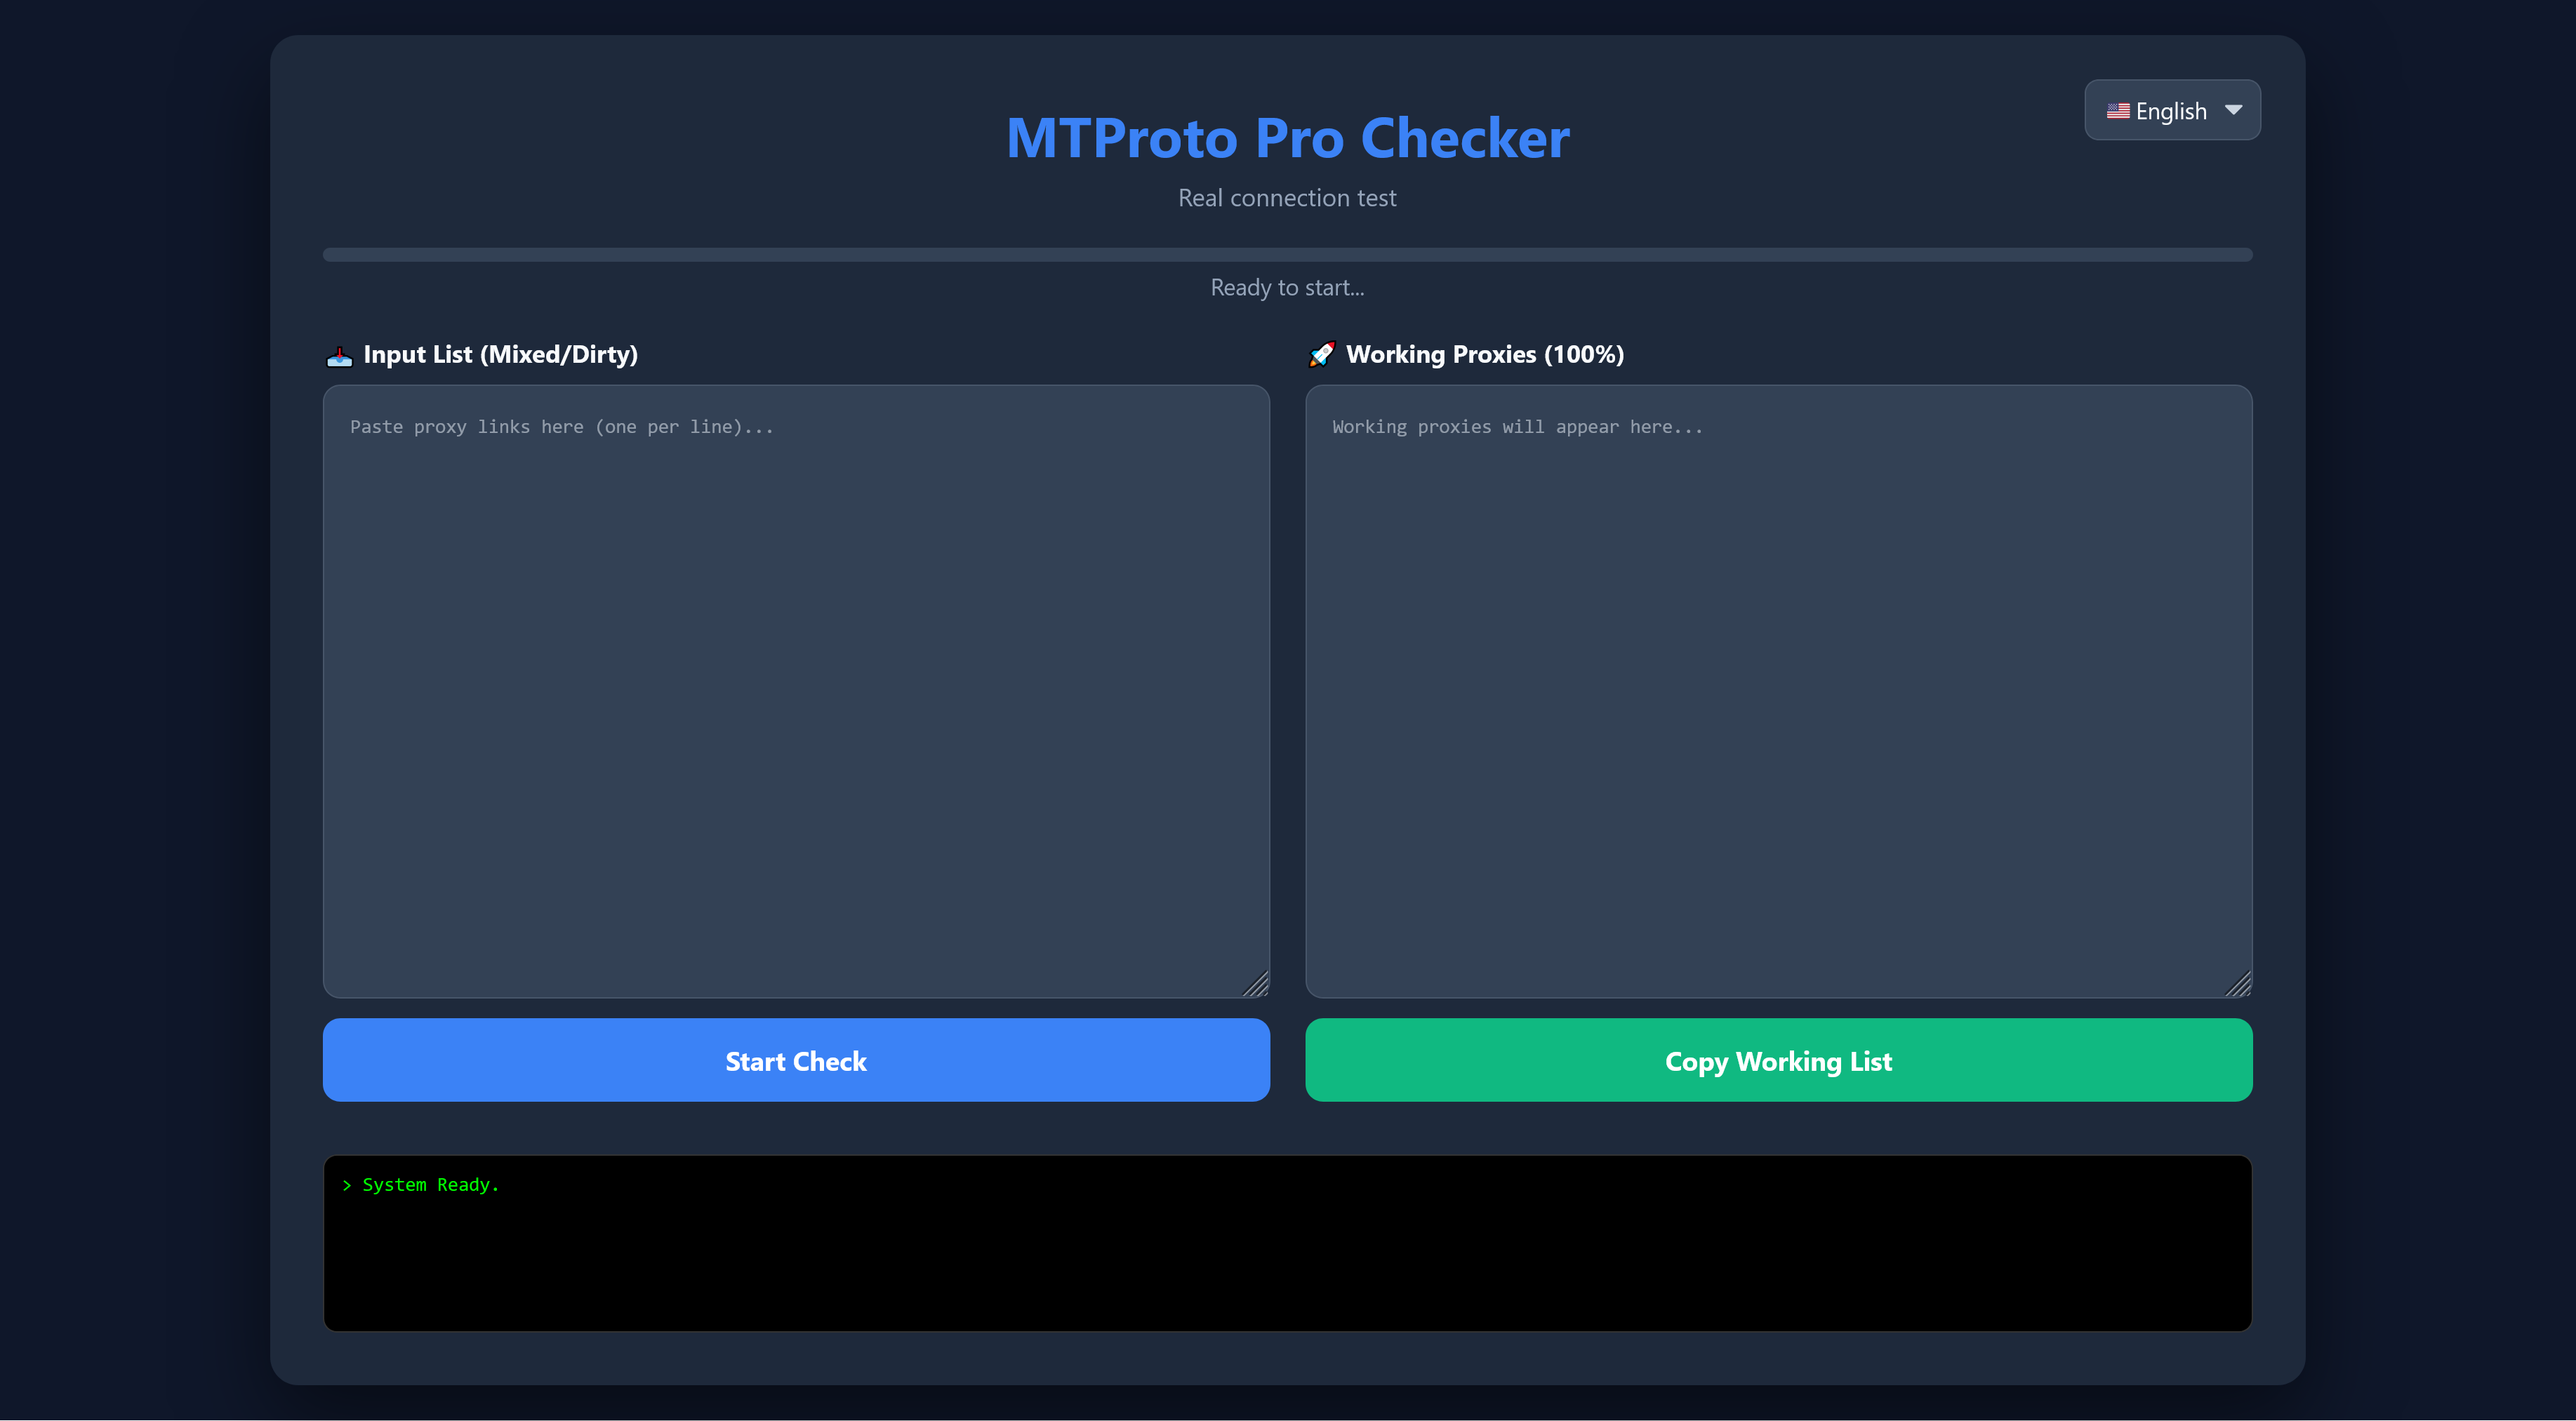
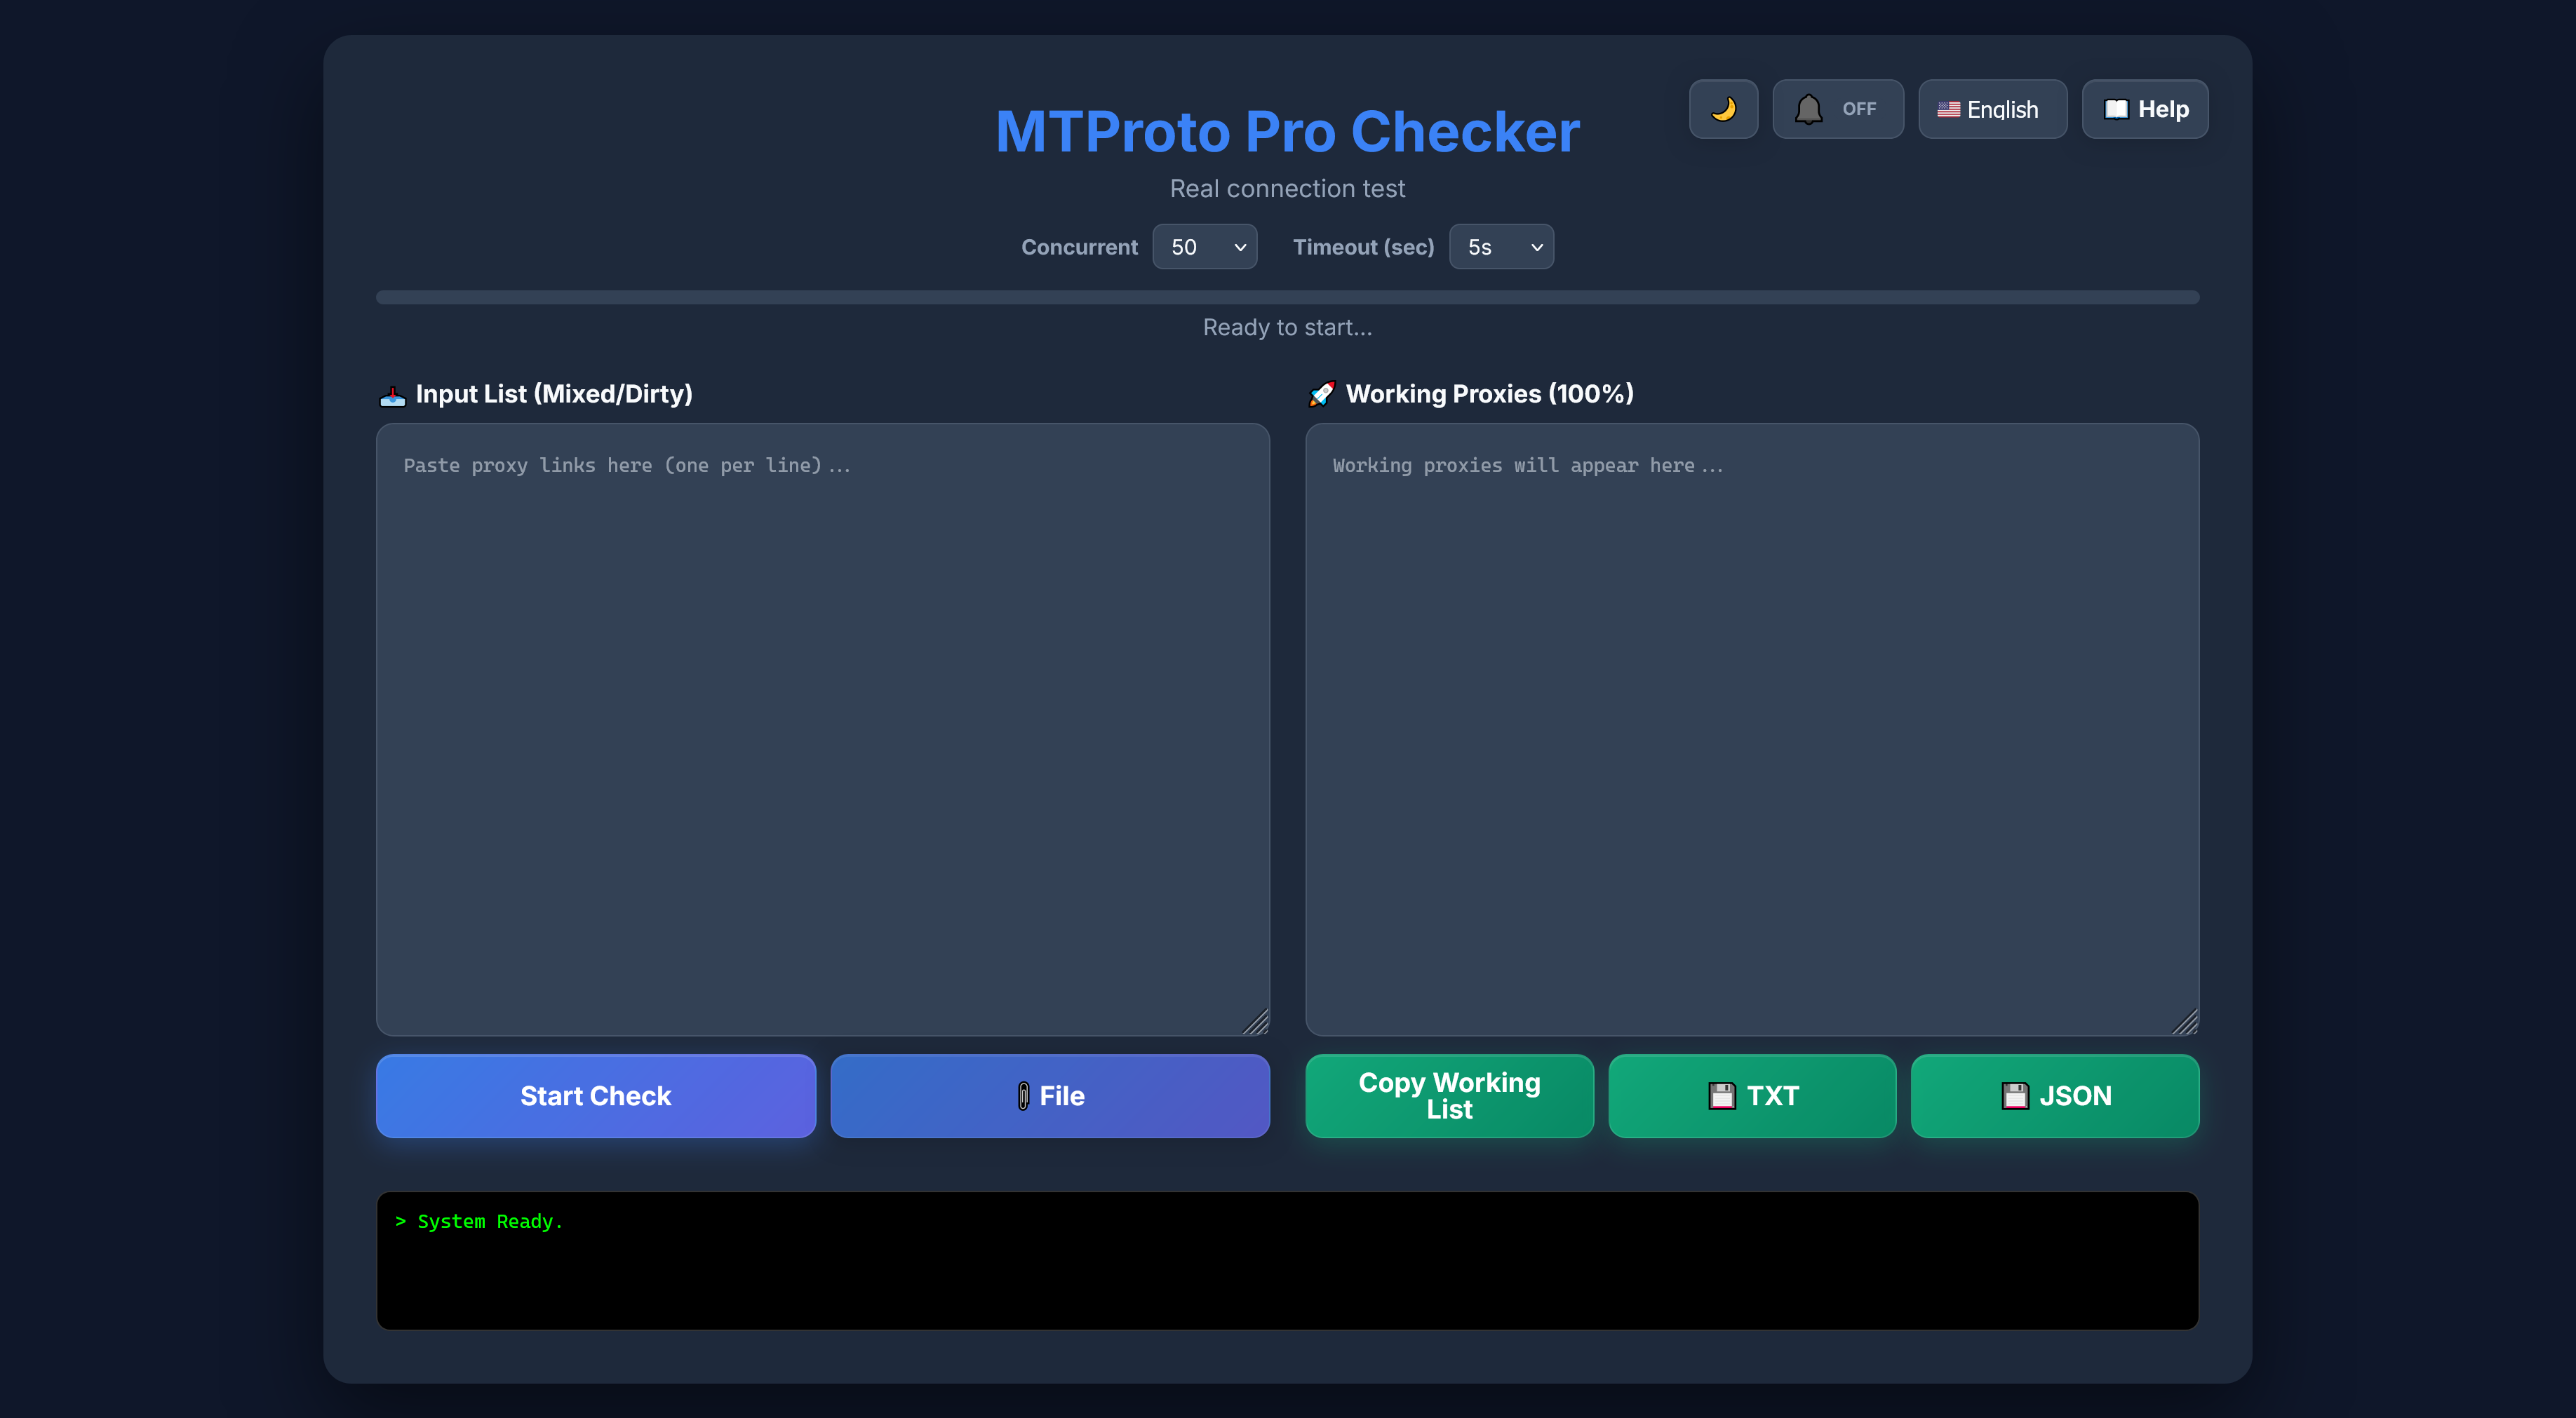
chore: update READMEs, add help btn, update skill files
- README: lang links moved to top, installation rewritten
  with release table (5 platforms), lang-specific screenshots
- index.html: h1 wraps repo link; help btn with i18n text
- openHelp(): opens per-language README on GitHub in new tab
- CSS: help-btn styled as header control, h1 link no underline
- SPEC.md: C3 4 langs, V20 (title link + help btn)
- AGENTS.md: title link, help btn, release workflow facts

Changed region(s): [[0.0932, 0.0312, 0.9008, 0.9659], [0.0, 0.997, 1.0, 1.0]]

diff --git a/public/css/components.css b/public/css/components.css
@@ -16,7 +16,8 @@ html[dir="ltr"] .header-controls {
 
 .header-controls .theme-toggle,
 .header-controls .sound-toggle,
-.header-controls .lang-select {
+.header-controls .lang-select,
+.header-controls .help-btn {
     display: flex;
     align-items: center;
     box-sizing: border-box;
@@ -38,7 +39,8 @@ html[dir="ltr"] .header-controls {
 
 .header-controls .theme-toggle:hover,
 .header-controls .sound-toggle:hover,
-.header-controls .lang-select:hover {
+.header-controls .lang-select:hover,
+.header-controls .help-btn:hover {
     border-color: var(--accent);
     background-color: #3f4a5e;
 }
@@ -112,6 +114,23 @@ html[dir="rtl"] .lang-select {
     min-width: 36px;
     font-size: 15px;
     padding: 4px 8px;
+}
+
+.help-btn {
+    justify-content: center;
+    font-size: 13px;
+    padding: 4px 10px;
+    cursor: pointer;
+    border: none;
+    background: none;
+    color: var(--text);
+    font-family: inherit;
+    line-height: 1;
+    white-space: nowrap;
+}
+
+[data-theme="light"] .header-controls .help-btn:hover {
+    background-color: #e2e8f0;
 }
 
 /* ===== Settings Bar ===== */

diff --git a/public/js/script.js b/public/js/script.js
@@ -20,6 +20,7 @@ const translations = {
         toastNoWorking: "😔 هیچ پروکسی سالمی پیدا نشد.",
         toastFound: "🎉 {n} پروکسی سالم پیدا شد!",
         errorGeneric: "خطایی رخ داد. کنسول را چک کنید.",
+        helpBtn: "📖 راهنما",
         fileBtn: "📎 فایل",
         exportTxtBtn: "💾 TXT",
         exportJsonBtn: "💾 JSON",
@@ -48,6 +49,7 @@ const translations = {
         toastNoWorking: "😔 No working proxies found.",
         toastFound: "🎉 Found {n} working proxies!",
         errorGeneric: "An error occurred. Check console.",
+        helpBtn: "📖 Help",
         fileBtn: "📎 File",
         exportTxtBtn: "💾 TXT",
         exportJsonBtn: "💾 JSON",
@@ -76,6 +78,7 @@ const translations = {
         toastNoWorking: "😔 Рабочих прокси не найдено.",
         toastFound: "🎉 Найдено {n} рабочих прокси!",
         errorGeneric: "Произошла ошибка. Проверьте консоль.",
+        helpBtn: "📖 Помощь",
         fileBtn: "📎 Файл",
         exportTxtBtn: "💾 TXT",
         exportJsonBtn: "💾 JSON",
@@ -104,6 +107,7 @@ const translations = {
         toastNoWorking: "😔 未找到可用代理.",
         toastFound: "🎉 找到 {n} 个可用代理!",
         errorGeneric: "发生错误。请检查控制台。",
+        helpBtn: "📖 帮助",
         fileBtn: "📎 文件",
         exportTxtBtn: "💾 TXT",
         exportJsonBtn: "💾 JSON",
@@ -260,6 +264,16 @@ function parseLink(link) {
 
         return { server, port, secret, original: cleanLink };
     } catch (e) { return null;     }
+}
+
+function openHelp() {
+    const urls = {
+        fa: 'https://github.com/rahgozar94725/MTProto-Checker/blob/main/README_FA.md',
+        en: 'https://github.com/rahgozar94725/MTProto-Checker/blob/main/README.md',
+        ru: 'https://github.com/rahgozar94725/MTProto-Checker/blob/main/README_RU.md',
+        zh: 'https://github.com/rahgozar94725/MTProto-Checker/blob/main/README_ZH.md'
+    };
+    window.open(urls[currentLang] || urls.en, '_blank', 'noopener');
 }
 
 function handleStartStop() {

diff --git a/public/css/base.css b/public/css/base.css
@@ -56,6 +56,14 @@ h1 {
     margin-top: 5px;
 }
 
+h1 a {
+    color: var(--accent);
+    text-decoration: none;
+}
+h1 a:hover {
+    text-decoration: underline;
+}
+
 p.sub {
     text-align: center;
     color: var(--muted);

diff --git a/public/index.html b/public/index.html
@@ -24,10 +24,11 @@
             <option value="ru">🇷🇺 Русский</option>
             <option value="zh">🇨🇳 中文</option>
         </select>
+        <button class="help-btn" id="helpBtn" onclick="openHelp()" data-i18n="helpBtn">📖 راهنما</button>
     </div>
 
     <div>
-        <h1 data-i18n="title">MTProto Pro Checker</h1>
+        <h1><a href="https://github.com/rahgozar94725/MTProto-Checker" target="_blank" rel="noopener" data-i18n="title">MTProto Pro Checker</a></h1>
         <p class="sub" data-i18n="subtitle">تست اتصال</p>
 
         <div class="settings-bar">

diff --git a/README_RU.md b/README_RU.md
@@ -1,8 +1,10 @@
 # 🛡️ MTProto Deep Checker
 
+[Read in English](README.md) | [На русском](README_RU.md) | [中文](README_ZH.md) | [فارسی](README_FA.md)
+
 Инструмент для проверки **Telegram MTProto прокси** с выполнением реального рукопожатия протокола. В отличие от простых TCP-чекеров, этот инструмент пытается получить конфигурацию сервера через прокси, гарантируя 100% работоспособность.
 
-![Скриншот](images/screenshot.png)
+![Скриншот](images/screenshot_ru.png)
 
 ## 🌟 Возможности
 
@@ -18,26 +20,32 @@
 
 ## 🚀 Установка
 
-### Вариант 1 — Скачать .exe (Windows)
+### Вариант 1 — Скачать из Releases
 
-Скачайте `MTProto-Checker.exe` из [Releases](../../releases). Запустите двойным щелчком.
+Скачайте готовый бинарник для вашей платформы из [Releases](../../releases).
 
-> Браузер откроется автоматически по адресу `http://localhost:3000`.
+| Платформа | Файл |
+|-----------|------|
+| Windows (amd64) | `mtproto-checker-windows-amd64.exe` |
+| Linux (amd64) | `mtproto-checker-linux-amd64` |
+| Linux (arm64) | `mtproto-checker-linux-arm64` |
+| macOS (Intel) | `mtproto-checker-darwin-amd64` |
+| macOS (Apple Silicon) | `mtproto-checker-darwin-arm64` |
 
-### Вариант 2 — Запуск из исходников с Go (рекомендуется)
+Запустите бинарник. Браузер откроется автоматически по адресу `http://localhost:3000`.
 
-#### Требования
-Установите **Go 1.18+**. [Скачать здесь](https://go.dev/dl/).
+### Вариант 2 — Сборка из исходников
 
-#### Шаги
+Требуется **Go 1.18+**. [Скачать Go](https://go.dev/dl/).
+
 ```bash
 git clone https://github.com/rahgozar94725/MTProto-Checker.git
 cd MTProto-Checker
-go build -o mtproto-checker.exe .
-.\mtproto-checker.exe
+go build -o mtproto-checker .
+./mtproto-checker
 ```
 
-> Бинарник: ~21MB, Node.js не требуется.
+> Бинарник: ~21MB, других зависимостей нет.
 
 ## 📖 Как использовать
 
@@ -75,6 +83,3 @@ go build -o mtproto-checker.exe .
 ## 📝 Лицензия
 
 Проект с открытым исходным кодом под лицензией [MIT](LICENSE).
-
----
-[Read in English](README.md) | [На русском](README_RU.md) | [中文](README_ZH.md) | [فارسی](README_FA.md)

diff --git a/README_ZH.md b/README_ZH.md
@@ -1,8 +1,10 @@
 # 🛡️ MTProto Deep Checker
 
+[Read in English](README.md) | [На русском](README_RU.md) | [中文](README_ZH.md) | [فارسی](README_FA.md)
+
 一个强大的 **Telegram MTProto 代理** 验证工具，通过执行真实协议握手来检测代理。与简单的 TCP 检查器不同，此工具尝试通过代理获取实际的服务器配置，确保 100% 的连接性。
 
-![界面截图](images/screenshot.png)
+![界面截图](images/screenshot_zh.png)
 
 ## 🌟 功能特点
 
@@ -18,26 +20,32 @@
 
 ## 🚀 安装
 
-### 方式 1 — 下载 .exe (Windows)
+### 方式 1 — 从 Releases 下载
 
-从 [Releases](../../releases) 下载 `MTProto-Checker.exe`。双击运行。
+从 [Releases](../../releases) 下载适用于您平台的预编译二进制文件。
 
-> 浏览器将自动打开 `http://localhost:3000`。
+| 平台 | 文件 |
+|------|------|
+| Windows (amd64) | `mtproto-checker-windows-amd64.exe` |
+| Linux (amd64) | `mtproto-checker-linux-amd64` |
+| Linux (arm64) | `mtproto-checker-linux-arm64` |
+| macOS (Intel) | `mtproto-checker-darwin-amd64` |
+| macOS (Apple Silicon) | `mtproto-checker-darwin-arm64` |
 
-### 方式 2 — 从源码运行（推荐）
+运行后，浏览器将自动打开 `http://localhost:3000`。
 
-#### 前置要求
-需要安装 **Go 1.18+**。[在此下载](https://go.dev/dl/)。
+### 方式 2 — 从源码构建
 
-#### 步骤
+需要 **Go 1.18+**。[下载 Go](https://go.dev/dl/)。
+
 ```bash
 git clone https://github.com/rahgozar94725/MTProto-Checker.git
 cd MTProto-Checker
-go build -o mtproto-checker.exe .
-.\mtproto-checker.exe
+go build -o mtproto-checker .
+./mtproto-checker
 ```
 
-> 二进制文件：~21MB，无需 Node.js。
+> 二进制文件：~21MB，无其他依赖。
 
 ## 📖 使用方法
 
@@ -75,6 +83,3 @@ go build -o mtproto-checker.exe .
 ## 📝 许可证
 
 本项目为开源项目，基于 [MIT 许可证](LICENSE)。
-
----
-[Read in English](README.md) | [На русском](README_RU.md) | [中文](README_ZH.md) | [فارسی](README_FA.md)

diff --git a/README_FA.md b/README_FA.md
@@ -1,5 +1,7 @@
 # 🛡️ تست دقیق پروکسی MTProto
 
+[English](README.md) | [На русском](README_RU.md) | [中文](README_ZH.md) | [فارسی](README_FA.md)
+
 یک ابزار قدرتمند و سبک برای تست واقعی پروکسیهای تلگرام. برخلاف اکثر چکرها که فقط «پینگ» میگیرند، این ابزار واقعاً تلاش میکند اطلاعات را از سرور تلگرام دانلود کند. اگر پروکسی در این برنامه «سالم» نشان داده شود، یعنی **۱۰۰٪ در تلگرام وصل میشود** و روی حالت `Connecting` گیر نمیکند.
 
 ![اسکرین شات](images/screenshot_fa.png)
@@ -15,11 +17,32 @@
 
 ## 📦 نصب و راهاندازی
 
-### گزینه ۱ — دانلود فایل .exe (ویندوز، بدون نیاز به Node.js)
+### گزینه ۱ — دانلود از ریلیز
 
-فایل `MTProto-Checker.exe` را از [بخش Release](../../releases) دانلود کنید. دوبار کلیک کنید تا اجرا شود.
+فایل باینری آماده برای سیستمعامل خود را از [بخش Release](../../releases) دانلود کنید.
 
-> مرورگر به صورت خودکار در آدرس `http://localhost:3000` باز میشود.
+| سیستمعامل | فایل |
+|------------|------|
+| ویندوز (amd64) | `mtproto-checker-windows-amd64.exe` |
+| لینوکس (amd64) | `mtproto-checker-linux-amd64` |
+| لینوکس (arm64) | `mtproto-checker-linux-arm64` |
+| مک (Intel) | `mtproto-checker-darwin-amd64` |
+| مک (Apple Silicon) | `mtproto-checker-darwin-arm64` |
+
+فایل را اجرا کنید. مرورگر به صورت خودکار در آدرس `http://localhost:3000` باز میشود.
+
+### گزینه ۲ — بیلد از سورس
+
+نیازمند **Go 1.18+**. [دانلود Go](https://go.dev/dl/).
+
+```bash
+git clone https://github.com/rahgozar94725/MTProto-Checker.git
+cd MTProto-Checker
+go build -o mtproto-checker .
+./mtproto-checker
+```
+
+> باینری: ~21MB، بدون وابستگی دیگر.
 
 
 
@@ -53,6 +76,3 @@
 ## 📄 لایسنس
 
 این پروژه متنباز (Open Source) است و تحت لایسنس MIT منتشر شده است.
-
----
-[English](README.md) | [На русском](README_RU.md) | [中文](README_ZH.md) | [فارسی](README_FA.md)

diff --git a/README.md b/README.md
@@ -1,5 +1,7 @@
 # 🛡️ MTProto Deep Checker
 
+[Read in English](README.md) | [На русском](README_RU.md) | [中文](README_ZH.md) | [فارسی](README_FA.md)
+
 A powerful tool to verify **Telegram MTProto Proxies** by performing real protocol handshakes. Unlike simple TCP checkers, this tool attempts to fetch the actual server configuration from Telegram via the proxy, ensuring 100% connectivity and eliminating the "Connecting..." issue.
 
 ![UI Screenshot](images/screenshot.png)
@@ -17,26 +19,32 @@ A powerful tool to verify **Telegram MTProto Proxies** by performing real protoc
 
 ## 🚀 Installation
 
-### Option 1 — Download .exe (Windows, no Node.js needed)
+### Option 1 — Download from Releases
 
-Grab `MTProto-Checker.exe` from [Releases](../../releases). Double-click to run.
+Download the pre-built binary for your platform from [Releases](../../releases).
 
-> Browser opens automatically at `http://localhost:3000`.
+| Platform | File |
+|----------|------|
+| Windows (amd64) | `mtproto-checker-windows-amd64.exe` |
+| Linux (amd64) | `mtproto-checker-linux-amd64` |
+| Linux (arm64) | `mtproto-checker-linux-arm64` |
+| macOS (Intel) | `mtproto-checker-darwin-amd64` |
+| macOS (Apple Silicon) | `mtproto-checker-darwin-arm64` |
 
-### Option 2 — Run from source with Go (recommended)
+Run the binary. Browser opens automatically at `http://localhost:3000`.
 
-#### Prerequisites
-You need **Go 1.18+** installed. [Download it here](https://go.dev/dl/).
+### Option 2 — Build from Source
 
-#### Steps
+Requires **Go 1.18+**. [Download Go](https://go.dev/dl/).
+
 ```bash
 git clone https://github.com/rahgozar94725/MTProto-Checker.git
 cd MTProto-Checker
-go build -o mtproto-checker.exe .
-.\mtproto-checker.exe
+go build -o mtproto-checker .
+./mtproto-checker
 ```
 
-> Binary: ~21MB, no Node.js required.
+> Binary: ~21MB, no other dependencies.
 
 ## 📖 How to Use
 
@@ -76,6 +84,3 @@ If you found this tool useful, you can support the development:
 ## 📝 License
 
 This project is open-source and available under the [MIT License](LICENSE).
-
----
-[Read in English](README.md) | [На русском](README_RU.md) | [中文](README_ZH.md) | [فارسی](README_FA.md)

diff --git a/AGENTS.md b/AGENTS.md
@@ -28,6 +28,9 @@ go run main.go   # localhost:3000, opens browser automatically
 | Build | `go build -o mtproto-checker.exe .` |
 | Start btn | Idle → blue `btn-start`. Scanning → red `btn-stop` (`scanState` global `'idle'`/`'scanning'`, `handleStartStop()` routes to `startCheck`/`stopScan`) |
 | Pause/Resume | Aborts SSE controller, reconnects with unchecked proxies only (`checkedKeys` Set) |
+| Title link | `<h1>` wraps `<a href="https://github.com/rahgozar94725/MTProto-Checker" target="_blank">`, styled without underline |
+| Help btn | `#helpBtn` text from i18n (`helpBtn` key), opens per-language README on GitHub via `openHelp()` using `window.open` |
+| Release | GitHub Actions on `push tags: 'v*'` → matrix build for 5 platforms, auto-upload to Releases |
 
 ## Gotchas
 - No TypeScript, no linting, no formatting config

diff --git a/SPEC.md b/SPEC.md
@@ -10,7 +10,7 @@ Go-based MTProto proxy checker: single binary, 3 endpoints, DNS cache, TCP pre-f
 |---|--------|
 | C1 | Go backend: `net/http`, `gotd/td`, 3 endpoints |
 | C2 | Port 3000, auto-open browser |
-| C3 | UI: bilingual (fa/en), dark mode, SSE streaming |
+| C3 | UI: 4 languages (fa/en/ru/zh), dark/light theme, SSE streaming |
 | C4 | Timeout: 3-30s default 5s, hard limit +10s |
 | C5 | Concurrency: 10-50 default 50 |
 | C6 | No JS linting/formatting/CI/CD |
@@ -51,6 +51,7 @@ Go-based MTProto proxy checker: single binary, 3 endpoints, DNS cache, TCP pre-f
 | V17 | Button colors: primary=gradient blue→indigo, copy/export=gradient emerald, pause=gradient amber |
 | V18 | ∀ pause → `controller.abort()` stops current SSE stream; ∀ resume → only unchecked proxies (by `server:port:secret` key in `checkedKeys` Set) are sent in new stream |
 | V19 | ∀ start scan → `scanState='scanning'`; start button becomes red Stop (`btn-stop`, `t.stopBtn`); ∀ stop → `controller.abort()`, state resets to `'idle'` |
+| V20 | Title `<h1>` wraps `<a>` pointing to repo; help button `#helpBtn` opens per-language README on GitHub in new tab via `openHelp()` |
 
 ## §T — Tasks
 